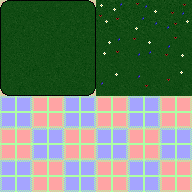
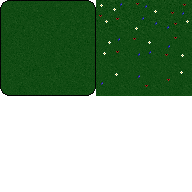
Add garden background

diff --git a/lib_snake.py b/lib_snake.py
@@ -1,6 +1,9 @@
 
 from typing import Optional
 
+import random
+import math
+
 from lib_nadisplay_colors import ND_Color
 from lib_nadisplay_rects import ND_Point
 import lib_nadisplay as nd
@@ -27,12 +30,8 @@ class Snake:
         self.sprites: dict[str, tuple[nd.ND_AnimatedSprite | nd.ND_Sprite_of_AtlasTexture, int]] = {}
 
 
-
-
-
-
 #
-def create_map1(win: nd.ND_Window, n: int = 30) -> None:
+def create_map1(win: nd.ND_Window, tx: int = 30, ty: int = 30) -> None:
     """
     Garden Map, a large square
 
@@ -60,12 +59,107 @@ def create_map1(win: nd.ND_Window, n: int = 30) -> None:
         win.main_app.global_vars_set("bg_garden_atlas", bg_garden_atlas)
 
     #
-    
+    bg_garden_sprites_dict: Optional[dict[str, tuple[nd.ND_Sprite_of_AtlasTexture, int]]] = win.main_app.global_vars_get("bg_garden_sprites_dict")
+    #
+    if bg_garden_sprites_dict is None:
+        #
+        bg_garden_sprites_dict = {}
+        #
+        win.main_app.global_vars_set("bg_garden_sprites_dict", bg_garden_sprites_dict)
 
-    # TODO
-    pass
+    #
+    def create_sprite_of_bg_garden(eid: str, atlas_x: int, atlas_y: int) -> tuple[nd.ND_Sprite_of_AtlasTexture, int]:
+        #
+        sprite: nd.ND_Sprite_of_AtlasTexture =  nd.ND_Sprite_of_AtlasTexture(
+                window=win,
+                elt_id=f"bg_garden_{eid}",
+                position=nd.ND_Position_RectGrid(rect_grid=bg_grid),
+                atlas_texture=bg_garden_atlas,
+                tile_x=atlas_x,
+                tile_y=atlas_y
+        )
+        #
+        bg_sprite_id: int = bg_grid.add_element_to_grid(sprite, [])
+        #
+        return (sprite, bg_sprite_id)
 
+    # Create all the sprites we need
+    SPRITE_POSITIONS: dict[str, tuple[int, int]] = {
+        "left_border": (0, 1),
+        "top_border": (1, 0),
+        "right_border": (2, 1),
+        "bottom_border": (1, 2),
+        "top_left_corner": (0, 0),
+        "top_right_corner": (2, 0),
+        "bottom_left_corner": (0, 2),
+        "bottom_right_corner": (2, 2),
+        "fill_niv_0_1": (1, 1),
+        "fill_niv_0_2": (1, 1),
+        "fill_niv_0_3": (1, 1),
+        "fill_niv_1_1": (3, 2),
+        "fill_niv_1_2": (4, 2),
+        "fill_niv_1_3": (5, 2),
+        "fill_niv_2_1": (3, 1),
+        "fill_niv_2_2": (4, 1),
+        "fill_niv_2_3": (5, 1),
+        "fill_niv_3_1": (3, 0),
+        "fill_niv_3_2": (4, 0),
+        "fill_niv_3_3": (5, 0),
+    }
 
+    #
+    sprite_pos_id: str
+    for sprite_pos_id in SPRITE_POSITIONS:
+        if sprite_pos_id not in bg_garden_sprites_dict:
+            bg_garden_sprites_dict[sprite_pos_id] = create_sprite_of_bg_garden(sprite_pos_id, *SPRITE_POSITIONS[sprite_pos_id])
+
+    #
+    map_start_x: int = 0
+    map_start_y: int = 0
+    map_end_x: int = tx
+    map_end_y: int = ty
+    x: int
+    y: int
+
+    # Bordure gauche
+    bg_grid.add_element_position(bg_garden_sprites_dict["left_border"][1],
+                                 [ND_Point(map_start_x, y) for y in range(map_start_y, map_end_y)] )
+    # Bordure droite
+    bg_grid.add_element_position(bg_garden_sprites_dict["right_border"][1],
+                                 [ND_Point(map_end_x, y) for y in range(map_start_y, map_end_y)] )
+    # Bordure haut
+    bg_grid.add_element_position(bg_garden_sprites_dict["top_border"][1],
+                                 [ND_Point(x, map_start_y) for x in range(map_start_x, map_end_x)] )
+    # Bordure bas
+    bg_grid.add_element_position(bg_garden_sprites_dict["bottom_border"][1],
+                                 [ND_Point(x, map_end_y) for x in range(map_start_x, map_end_x)] )
+    # Coins
+    bg_grid.add_element_position(bg_garden_sprites_dict["top_left_corner"][1],
+                                 ND_Point(map_start_x, map_start_y))
+    bg_grid.add_element_position(bg_garden_sprites_dict["top_right_corner"][1],
+                                 ND_Point(map_end_x, map_start_y))
+    bg_grid.add_element_position(bg_garden_sprites_dict["bottom_left_corner"][1],
+                                 ND_Point(map_start_x, map_end_y))
+    bg_grid.add_element_position(bg_garden_sprites_dict["bottom_right_corner"][1],
+                                 ND_Point(map_end_x, map_end_y))
+
+    """
+    e^x - 1 = 3
+    <=> e^x = 4
+    <=> x = ln(4)
+    """
+
+    # Remplir le carré aléatoirement avec moins de chance d'avoir les sprites avec pleins de fleurs.
+    for x in range(map_start_x+1, map_end_x):
+        for y in range(map_start_y+1, map_end_y):
+            #
+            a: float = random.uniform(0, 1)
+            b: int = random.randint(1, 3)
+            #
+            grass_niv: int = math.floor( math.exp(a * math.log(4)) - 1)
+            #
+            bg_grid.add_element_position(bg_garden_sprites_dict[f"fill_niv_{grass_niv}_{b}"][1],
+                                         ND_Point(x, y))
 
 
 

diff --git a/main.py b/main.py
@@ -15,7 +15,7 @@ from lib_nadisplay_sdl import ND_EventsManager_SDL as EventsManagerClass
 # from lib_nadisplay_pygame import ND_Display_Pygame as DisplayClass, ND_Window_Pygame as WindowClass, ND_EventsManager_Pygame as EventsManagerClass  # Working a little
 
 
-from lib_snake import Snake
+from lib_snake import Snake, create_map1
 
 import math
 import time
@@ -24,8 +24,8 @@ import time
 MAIN_WINDOW_ID: int = 0
 
 #
-TERRAIN_X: int = 4
-TERRAIN_Y: int = 4
+TERRAIN_X: int = 0
+TERRAIN_Y: int = 0
 TERRAIN_W: int = 20
 TERRAIN_H: int = 20
 
@@ -100,7 +100,7 @@ def on_bt_click_init_game(win: nd.ND_Window) -> None:
             window=win,
             elt_id="wall_grid",
             position=nd.ND_Position_RectGrid(rect_grid=grid),
-            base_bg_color=cl("dark grey")
+            base_bg_color=cl("black")
         )
         win.main_app.global_vars_set("wall_grid_elt", wall_grid_elt)
 
@@ -134,6 +134,9 @@ def on_bt_click_init_game(win: nd.ND_Window) -> None:
         #
         grid.add_element_position(wall_grid_id, ND_Point(xx, TERRAIN_Y-1))
         grid.add_element_position(wall_grid_id, ND_Point(xx, TERRAIN_Y+TERRAIN_H+1))
+
+    #
+    create_map1(win, TERRAIN_W, TERRAIN_H)
 
     #
     snk_idx: int
@@ -252,7 +255,7 @@ def on_bt_click_init_game(win: nd.ND_Window) -> None:
 
     # center camera on grid area
     cam_grid.move_camera_to_grid_area(
-        nd.ND_Rect(TERRAIN_X, TERRAIN_Y, TERRAIN_W, TERRAIN_H)
+        nd.ND_Rect(TERRAIN_X+1, TERRAIN_Y+1, TERRAIN_W-2, TERRAIN_H-2)
     )
 
     # Setting New State
@@ -633,7 +636,7 @@ def create_game_scene(win: nd.ND_Window) -> nd.ND_Scene:
     #
     win.main_app.add_function_to_event_fns_queue("window_resized",
                 lambda main_app: camera_grid.move_camera_to_grid_area(
-                    nd.ND_Rect(TERRAIN_X, TERRAIN_Y, TERRAIN_W, TERRAIN_H)
+                    nd.ND_Rect(TERRAIN_X+1, TERRAIN_Y+1, TERRAIN_W-1, TERRAIN_H-1)
                 )
     )
 
